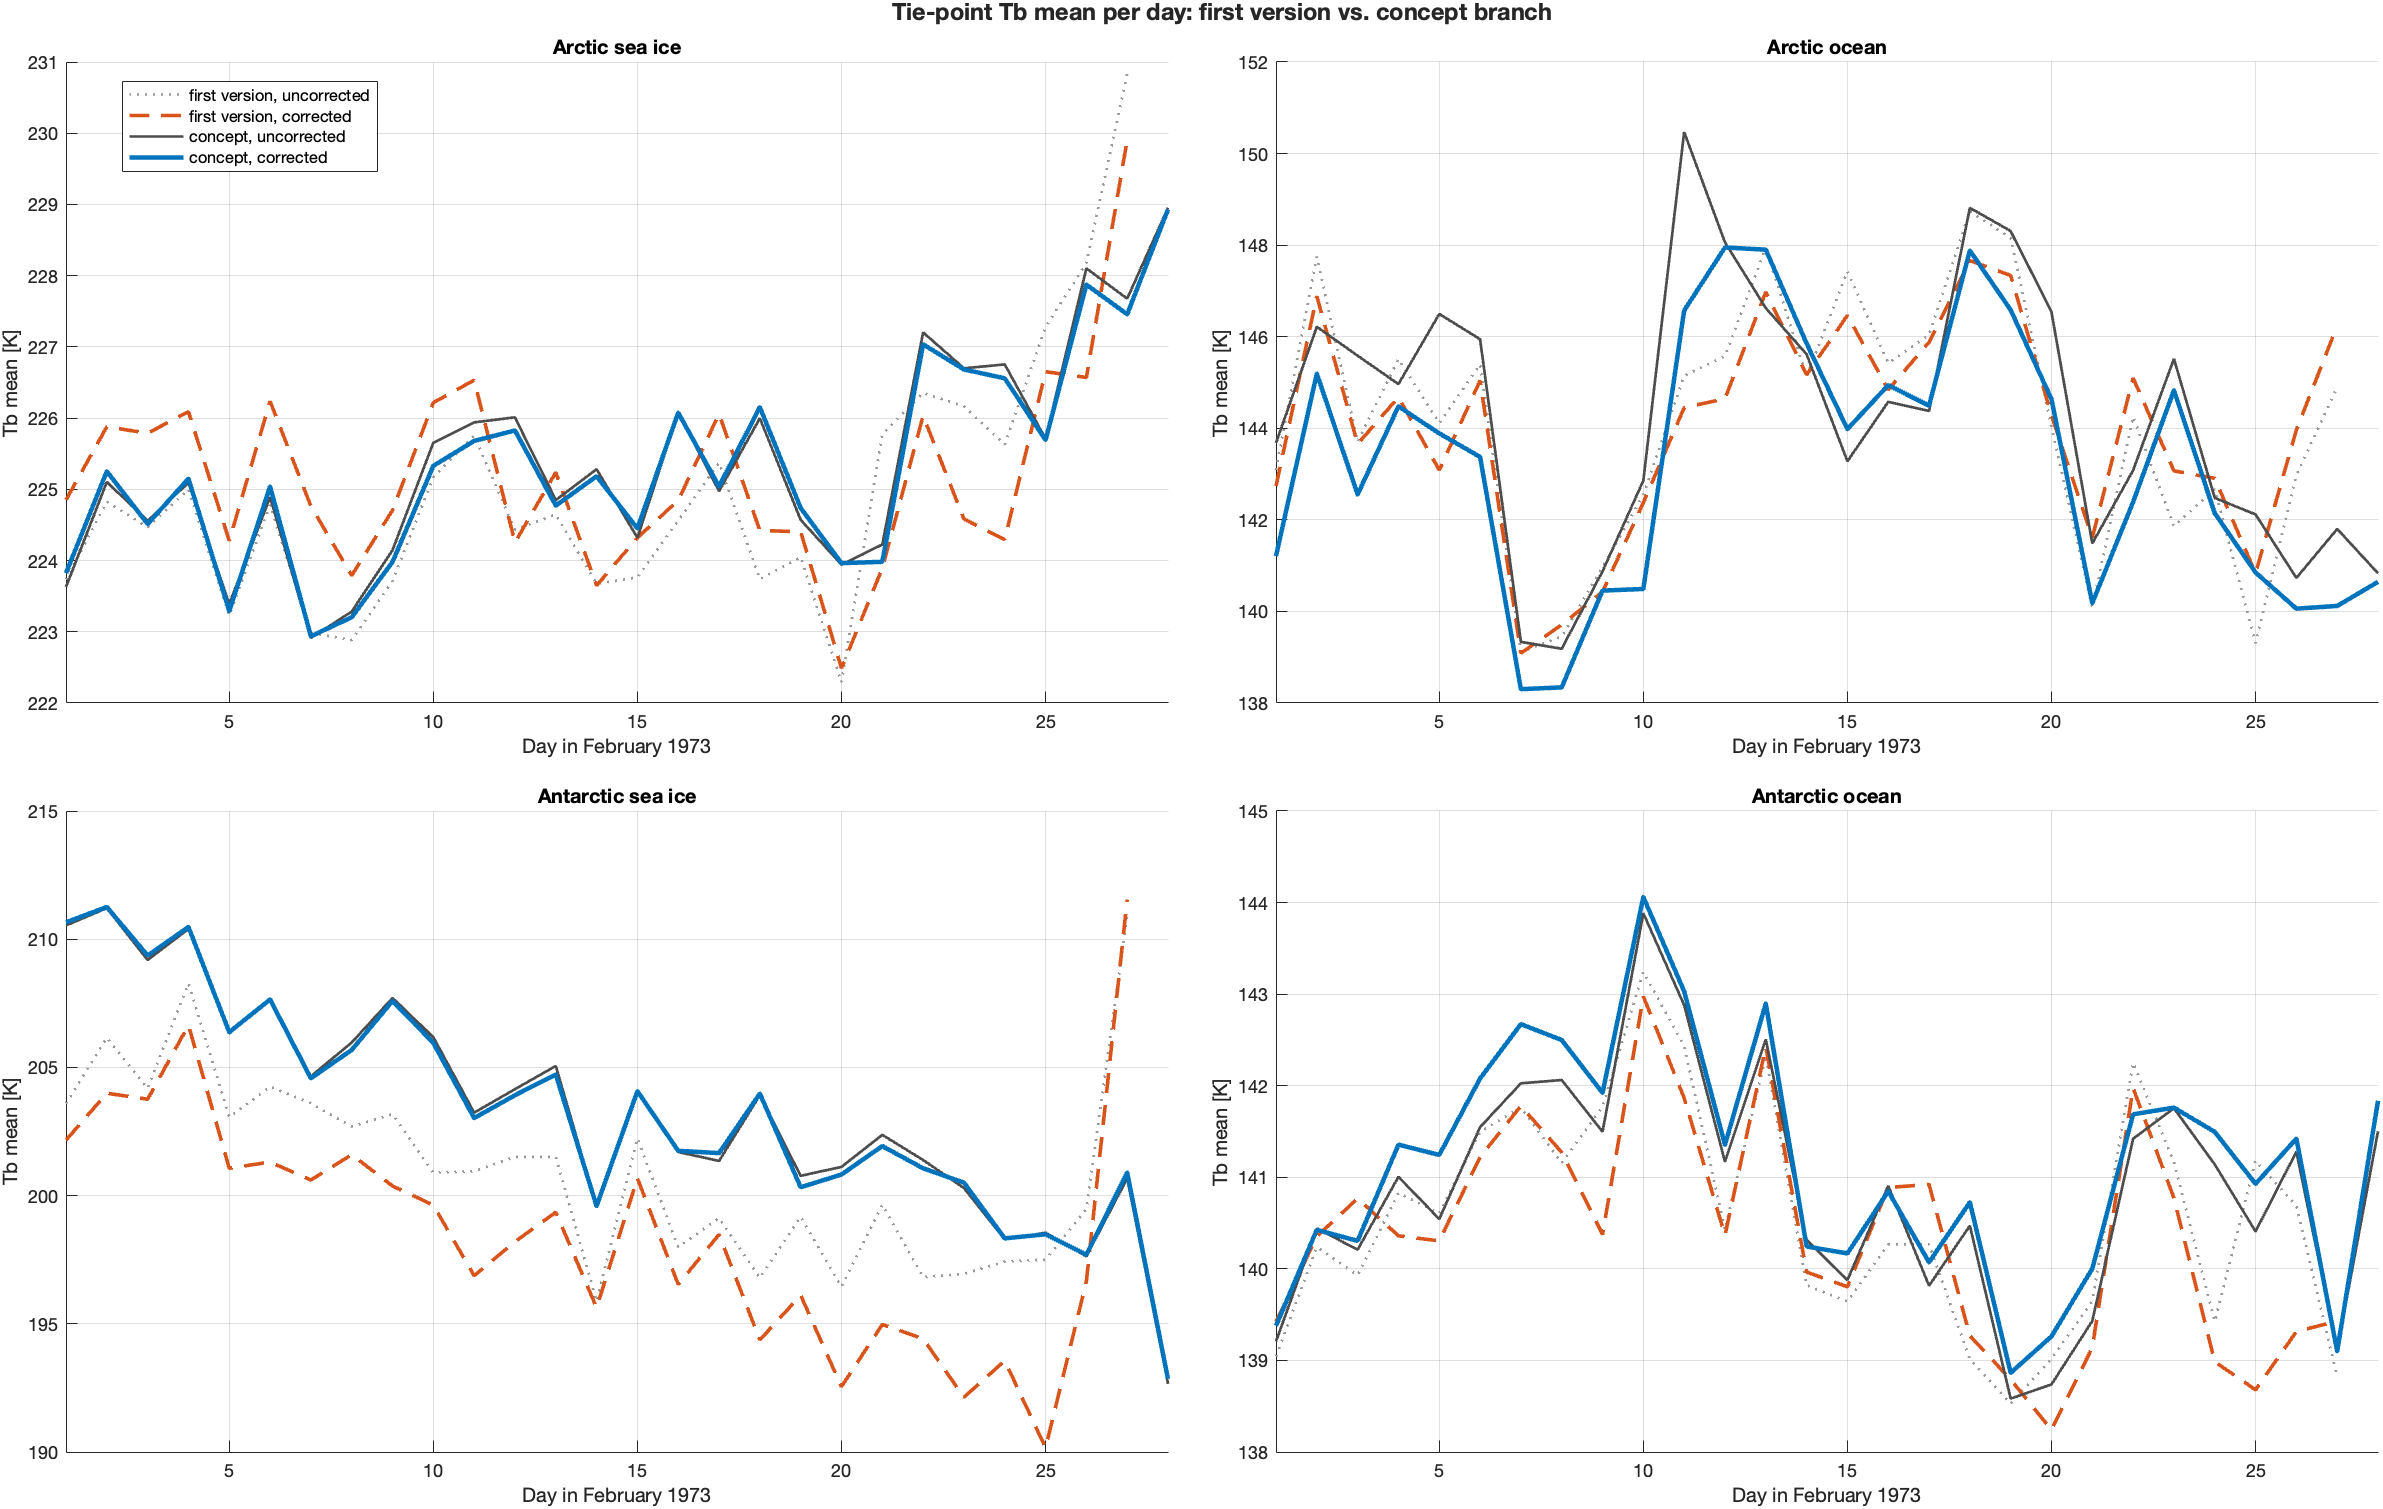
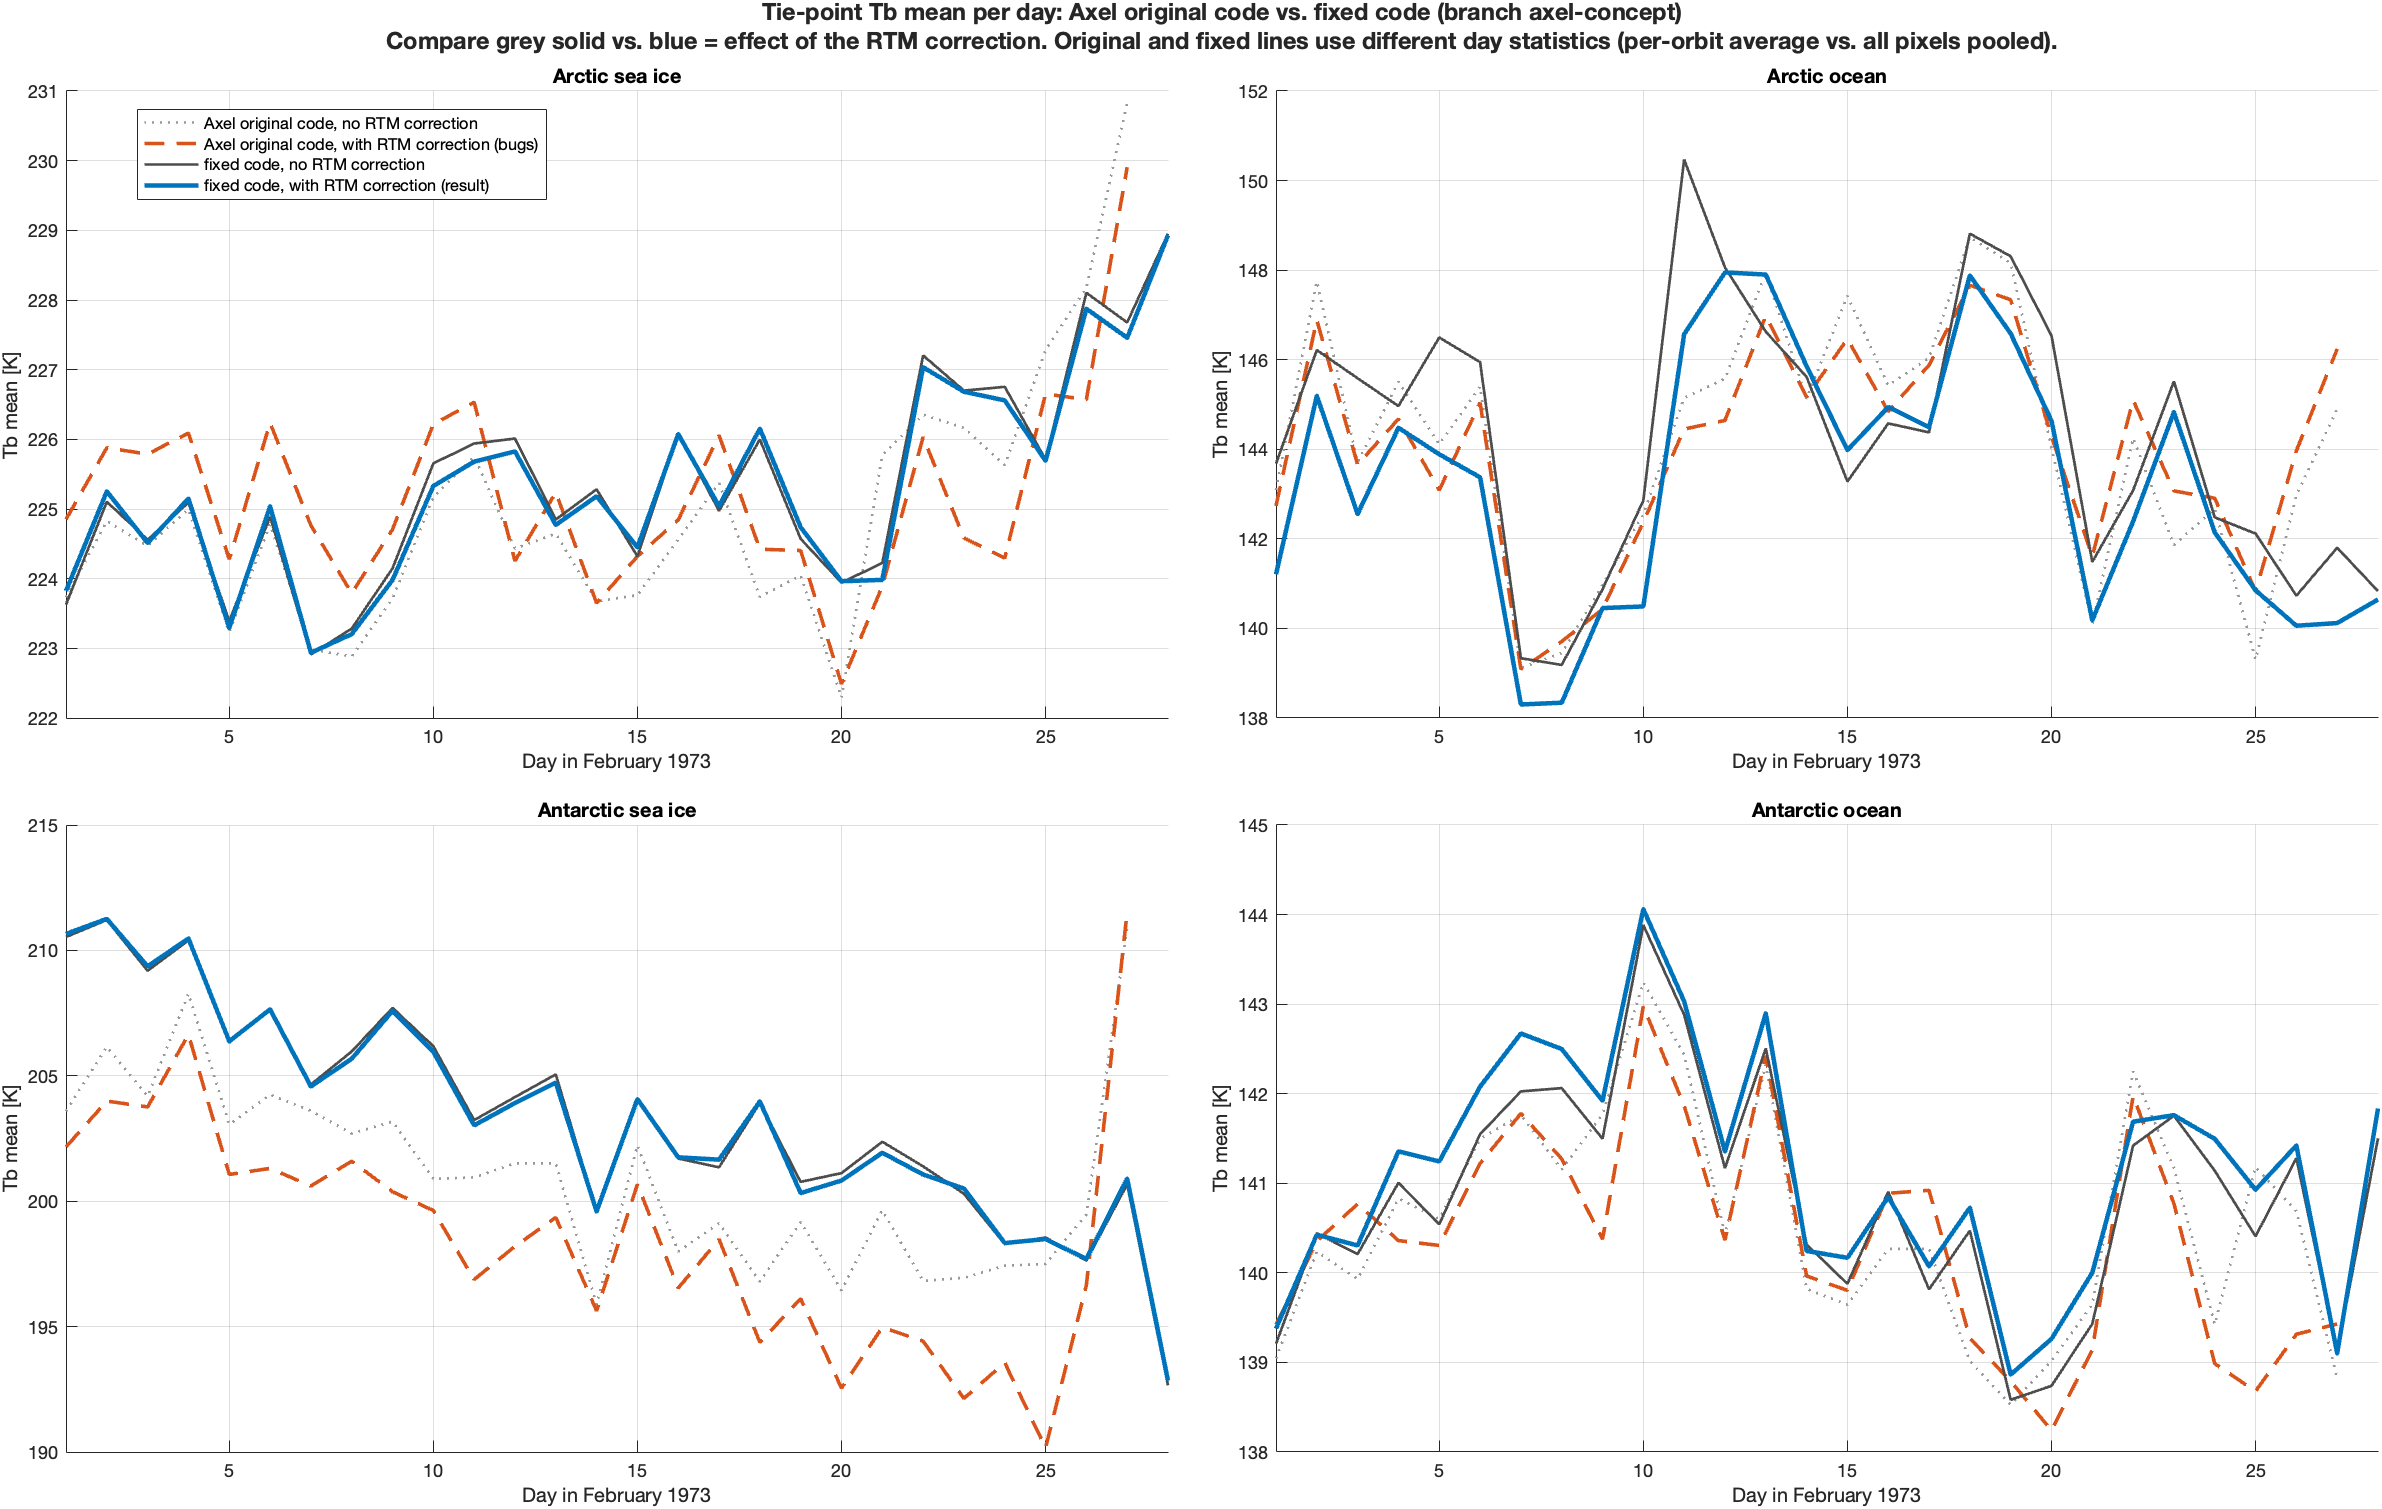
Concept: clearer plot labels and README guide to the plots
Legend now says "Axel original code" / "fixed code" and "no/with RTM
correction"; README explains each line and which lines to compare.

Claude-Session: https://claude.ai/code/session_01LW9C8YNaxEBdmF45kkJizc

diff --git a/Matlab/plotConceptComparison.m b/Matlab/plotConceptComparison.m
@@ -1,4 +1,4 @@
-% Extra plot: Axel's first version vs. the concept-branch fixes
+% Extra plot: Axel original code vs. fixed code (branch axel-concept)
 % Needs: Uncorrected.mat / Corrected.mat (first version, in this folder)
 %        results_concept/*.mat (from main.m on this branch)
 close all
@@ -19,19 +19,19 @@ for stat = ["mean","std"]
     for k = 1:4
         nexttile; hold on; grid on
         fld = cls(k) + "_" + stat;
-        plot(dOld, oldU.(fld), ':',  'Color',[.6 .6 .6], 'LineWidth',1.5, 'DisplayName','first version, uncorrected')
-        plot(dOld, oldC.(fld), '--', 'Color',[.85 .33 .10], 'LineWidth',2, 'DisplayName','first version, corrected')
-        plot(dNew, newU.(fld), '-',  'Color',[.3 .3 .3], 'LineWidth',1.5, 'DisplayName','concept, uncorrected')
-        plot(dNew, newC.(fld), '-',  'Color',[0 .45 .74], 'LineWidth',2.5, 'DisplayName','concept, corrected')
+        plot(dOld, oldU.(fld), ':',  'Color',[.6 .6 .6], 'LineWidth',1.5, 'DisplayName','Axel original code, no RTM correction')
+        plot(dOld, oldC.(fld), '--', 'Color',[.85 .33 .10], 'LineWidth',2, 'DisplayName','Axel original code, with RTM correction (bugs)')
+        plot(dNew, newU.(fld), '-',  'Color',[.3 .3 .3], 'LineWidth',1.5, 'DisplayName','fixed code, no RTM correction')
+        plot(dNew, newC.(fld), '-',  'Color',[0 .45 .74], 'LineWidth',2.5, 'DisplayName','fixed code, with RTM correction (result)')
         title(titles(k)); xlim([1 28]); xlabel('Day in February 1973'); ylabel("Tb " + stat + " [K]")
-        if k == 1, legend('Location','best'); end
+        if k == 1, legend('Location','best','FontSize',9); end
     end
-    title(tl, "Tie-point Tb " + stat + " per day: first version vs. concept branch", 'FontWeight','bold')
+    title(tl, {"Tie-point Tb " + stat + " per day: Axel original code vs. fixed code (branch axel-concept)", "Compare grey solid vs. blue = effect of the RTM correction. Original and fixed lines use different day statistics (per-orbit average vs. all pixels pooled)."}, 'FontWeight','bold')
     exportgraphics(f, fullfile("results_concept", "compare_tiepoint_" + stat + ".png"), 'Resolution', 130)
 end
 
 % Table: std reduction by the correction (mean over days)
-fprintf('\n%-20s %12s %12s %12s %12s\n','class','old uncorr','old corr','new uncorr','new corr')
+fprintf('\n%-20s %12s %12s %12s %12s\n','class','orig noRTM','orig RTM','fixed noRTM','fixed RTM')
 for k = 1:4
     fld = cls(k) + "_std";
     fprintf('%-20s %12.2f %12.2f %12.2f %12.2f\n', titles(k), mean(oldU.(fld),'omitnan'), ...

diff --git a/Matlab/README.md b/Matlab/README.md
@@ -48,7 +48,7 @@ The ERA5 clouds and water vapour do not match the 1973 scenes pixel by pixel. On
 
 ### 3. Result: std of the tie-point Tb, mean over 28 days [K]
 
-| Class | First version, uncorr. | First version, corr. | Concept, uncorr. | Concept, corr. |
+| Class | Axel original, no RTM | Axel original, with RTM | Fixed code, no RTM | Fixed code, with RTM (result) |
 |---|---|---|---|---|
 | Arctic sea ice | 10.81 | 10.85 | 11.40 | **10.88** |
 | Arctic ocean | 6.08 | 4.96 | 7.78 | **6.03** |
@@ -57,7 +57,22 @@ The ERA5 clouds and water vapour do not match the 1973 scenes pixel by pixel. On
 
 - **Over the ocean**, the correction lowers the std by 1.2–1.8 K. This is where the weather terms matter.
 - **Over ice**, the correction changes the std very little. This is expected, because over ice only Ti matters (see B1 sensitivity).
-- The first and the concept columns cannot be compared directly, because the day statistics are now computed differently (finding 4).
+- The "Axel original" and "fixed code" columns cannot be compared directly, because the day statistics are now computed differently (finding 4).
+
+#### How to read the plots
+
+Each figure has one panel per tie-point class. The x-axis is the day in February 1973. The y-axis is the std (or mean) of the Tb of all tie-point pixels of that day.
+
+| Line | Legend | Data |
+|---|---|---|
+| grey dotted | Axel original code, no RTM correction | `Uncorrected.mat` from commit 9e76b44 (old code) |
+| orange dashed | Axel original code, with RTM correction (bugs) | `Corrected.mat` from commit 9e76b44, includes the L sign bug |
+| grey solid | fixed code, no RTM correction | `results_concept/Uncorrected.mat` (this branch) |
+| blue thick | fixed code, with RTM correction (result) | `results_concept/Corrected.mat` (this branch) |
+
+- **Grey solid vs. blue** shows the effect of the RTM correction. This is the comparison that matters.
+- **Grey dotted vs. orange** shows what the old correction did. For Antarctic ice it pulled the mean down by 3–5 K because of the L sign bug.
+- **Dotted/dashed vs. solid** are not directly comparable. The old lines average per-orbit statistics, the new lines pool all pixels of a day (finding 4), so the new lines are higher.
 
 ![std per day](results_concept/compare_tiepoint_std.png)
 ![mean per day](results_concept/compare_tiepoint_mean.png)

diff --git a/Matlab/CONCEPT_CHANGES.md b/Matlab/CONCEPT_CHANGES.md
@@ -26,4 +26,4 @@ Removed: `calcSIC.m` (old copy of calculateSIC, undefined `File1`), `readAllFile
 ## Output
 `results_concept/Uncorrected.mat`, `results_concept/Corrected.mat`,
 `results_concept/compare_tiepoint_mean.png`, `results_concept/compare_tiepoint_std.png`
-(first version vs. concept, uncorrected and corrected, per class and day).
+(Axel original code vs. fixed code, each without and with RTM correction, per class and day).
